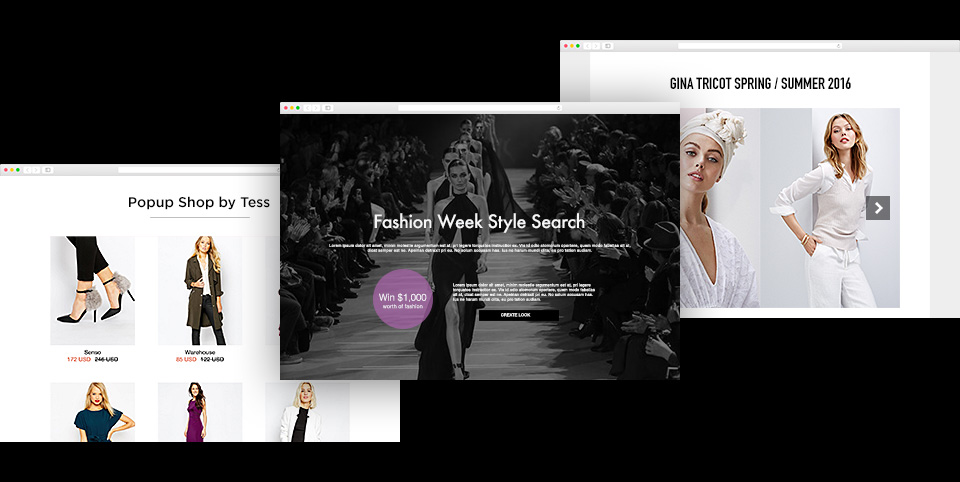
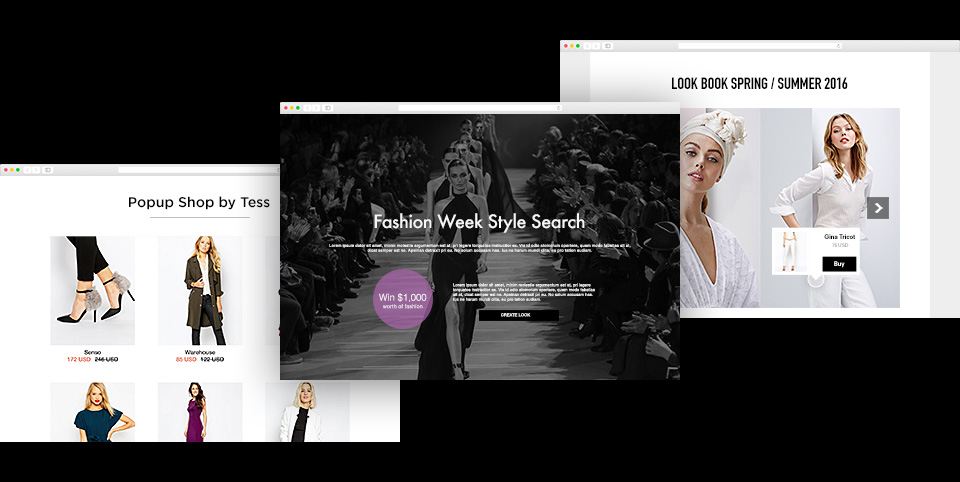
Minor updates. New images added for landing pages.

Changed region(s): [[0.7812, 0.4668, 0.9062, 0.5913], [0.6875, 0.1556, 0.9062, 0.1867], [0.9062, 0.4046, 0.9375, 0.4357]]

diff --git a/apparelrow/templates/base.html b/apparelrow/templates/base.html
@@ -181,7 +181,7 @@
                         </li>
                         <hr class="visible-xs visible-sm">
                         <li class="{% selected_url request "/" %}"><a href="{% multi_gender_url request 'feed' 'index' %}"><u>{% trans "Feed" %}</u>{# <span class="unread_count badge"></span> #}</a></li>
-                        <li class="{% selected_url request "/shop" "/products" %}"><a data-shop="true" href="{% multi_gender_url request 'shop' 'shop' %}"><u>{% trans "Products" %}</u></a></li>
+                        <li class="{% selected_url request "/shop" "/products" %}"><a data-shop="true" href="{% multi_gender_url request 'shop' 'shop' %}"><u>{% trans "Shop" %}</u></a></li>
                         <li class="dropdown {% selected_url request "/brands" "/users" %}">
                             <a class="dropdown-toggle" data-toggle="dropdown" href="{% multi_gender_url request 'user' 'user-list' %}"><u>{% trans "Discover" %} <b class="caret"></b></u></a>
                             <ul class="dropdown-menu">
@@ -393,7 +393,7 @@
     <div class="modal fade" id="modal_embed_shop" tabindex="-1"></div>
 
     <script type="text/html" id="user_like_template">
-        <li data-user-id="{{ request.user.pk }}"><a href="{{ request.user.get_absolute_url }}" title="{{ request.user.display_name }}"><img class="img-circle" alt="{{ request.user.display_name }}" title="{{ request.user.display_name }}" src="{{ request.user.avatar }}"></a></li>
+        <li data-user-id="{{ request.user.pk }}"><a href="{{ request.user.get_absolute_url }}" title="{{ request.user.display_name }}"><img class="img-circle" alt="{{ request.user.display_name }}" title="{{ request.user.display_name }}" src="{{ request.user.avatar }}"></a></li>
     </script>
     {% endif %}
 

diff --git a/apparelrow/static/styles/external-look.css b/apparelrow/static/styles/external-look.css
@@ -69,7 +69,7 @@ html.look-type-C .collage {
   text-overflow: ellipsis;
   overflow: hidden;
 }
-@media (max-width: 480px) {
+@media (max-width: 640px) {
   .apprl-look .close {
     width: 44px;
     height: 44px;
@@ -78,14 +78,14 @@ html.look-type-C .collage {
     top: -16px;
     right: -16px;
     border-radius: 100%;
-    background-color: #f8f8f8;
+    background-color: #999;
   }
   .apprl-look .close:before {
     font-family: 'FontAwesome';
     content: '\f00d';
     position: absolute;
-    top: 14px;
-    right: 14px;
+    top: 13px;
+    right: 15px;
     font-size: 18px;
   }
 }
@@ -119,6 +119,22 @@ html.look-type-C .collage {
   float: left;
   width: 160px;
   text-align: center;
+}
+.apprl-look .tooltip-link .tooltip-container {
+  height: 80px;
+}
+.apprl-look .tooltip-link .product-meta {
+  float: none;
+  width: 100% !important;
+}
+.apprl-look .tooltip-link .tooltip-arrow-top {
+  bottom: 95px;
+}
+.apprl-look .tooltip-link .tooltip-arrow {
+  top: 95px;
+}
+.apprl-look .tooltip-link h2 {
+  margin: 10px 0;
 }
 .apprl-look .product-image {
   text-align: center;
@@ -161,10 +177,11 @@ html.look-type-C .collage {
 }
 .apprl-look .tooltip-arrow {
   position: absolute;
-  top: 130px;
   z-index: 1000;
   width: 12px;
   height: 12px;
+  left: 50%;
+  margin-left: -6px;
   background-color: white;
   -moz-transform: rotate(45deg);
   -webkit-transform: rotate(45deg);
@@ -172,6 +189,10 @@ html.look-type-C .collage {
   -ms-transform: rotate(45deg);
   transform: rotate(45deg);
   box-shadow: 2px 2px 6px rgba(0, 0, 0, 0.17);
+}
+.apprl-look .tooltip-arrow-top {
+  top: -6px;
+  bottom: initial;
 }
 .apprl-look .tooltip-arrow-top {
   top: initial;

diff --git a/apparelrow/static/less/external-look.less b/apparelrow/static/less/external-look.less
@@ -81,7 +81,7 @@ html.look-type-C {
             top: -16px;
             right: -16px;
             border-radius: 100%;
-            background-color: @lightGrey;
+            background-color: #999;
             &:before {
                 font-family: 'FontAwesome';
                 content: '\f00d';
@@ -122,6 +122,24 @@ html.look-type-C {
         float: left;
         width: 160px;
         text-align: center;
+    }
+    .tooltip-link {
+        .tooltip-container {
+            height: 80px;
+        }
+        .product-meta {
+            float: none;
+            width: 100% !important;
+        }
+        .tooltip-arrow-top {
+            bottom: 95px;
+        }
+        .tooltip-arrow {
+            top: 95px;
+        }
+        h2 {
+            margin: 10px 0;
+        }
     }
     .product-image {
         text-align: center;

diff --git a/apparelrow/templates/apparel/home.html b/apparelrow/templates/apparel/home.html
@@ -212,7 +212,7 @@
 
         $(document).ready(function() {
             if ( mobile == true ) {
-                $('section:first').append('<div class="background-image" style="background-image: url({% static 'video/poster.jpg' %});"></div>');
+                $('section:first').append('<div class="background-image" style="background-image: url({% static 'images/splash.jpg' %});"></div>');
             }
             else {
                 $('section:first').append('<div class="background-video"><video autoplay="autoplay" preload="auto" poster="{% static "video/poster.jpg" %}" loop="loop" muted="true"><source src="{% static 'video/apprl.webm' %}" type="video/webm"><source src="{% static 'video/apprl.mp4' %}" type="video/mp4"></video></div>');

diff --git a/apparelrow/templates/profile/dialog_embed_shop.html b/apparelrow/templates/profile/dialog_embed_shop.html
@@ -4,7 +4,7 @@
     <div class="modal-dialog">
         <div class="modal-content">
             <div class="modal-header">
-                <h2><span class="visible-xs">{% trans "Embed & save" %}</span><span class="visible-sm visible-md visible-lg">{% trans "Customize, embed & save your shop" %}</span></h2>
+                <h2><span class="visible-xs">{% trans "Customize & save" %}</span><span class="visible-sm visible-md visible-lg">{% trans "Customize, embed & save your shop" %}</span></h2>
                 <button type="button" class="close" data-dismiss="modal" aria-hidden="true"><span></span></button>
             </div>
             <div class="modal-body">

diff --git a/apparelrow/static/less/_pages.less b/apparelrow/static/less/_pages.less
@@ -16,8 +16,6 @@
 */
 
 /* Home (Default) ---------- */
-.publisher-page {
-}
 .publisher-page, .retailer-page {
     background-color: black;
     header.expand .menu-toggler {
@@ -113,7 +111,7 @@
         bottom: 0;
         left: 0;
         width: 100%;
-        height: 2px;
+        height: 4px;
         background-color: @primaryColor;
     }
     .publisher-welcome {

diff --git a/apparelrow/static/less/base.less b/apparelrow/static/less/base.less
@@ -582,7 +582,7 @@ header .notifications {
     top: 60px;
     width: 320px;
     max-width: none;
-    padding: 0;
+    padding: 12px 0 0 0;
     a {
         padding: 5px 15px !important;
         .clearfix();
